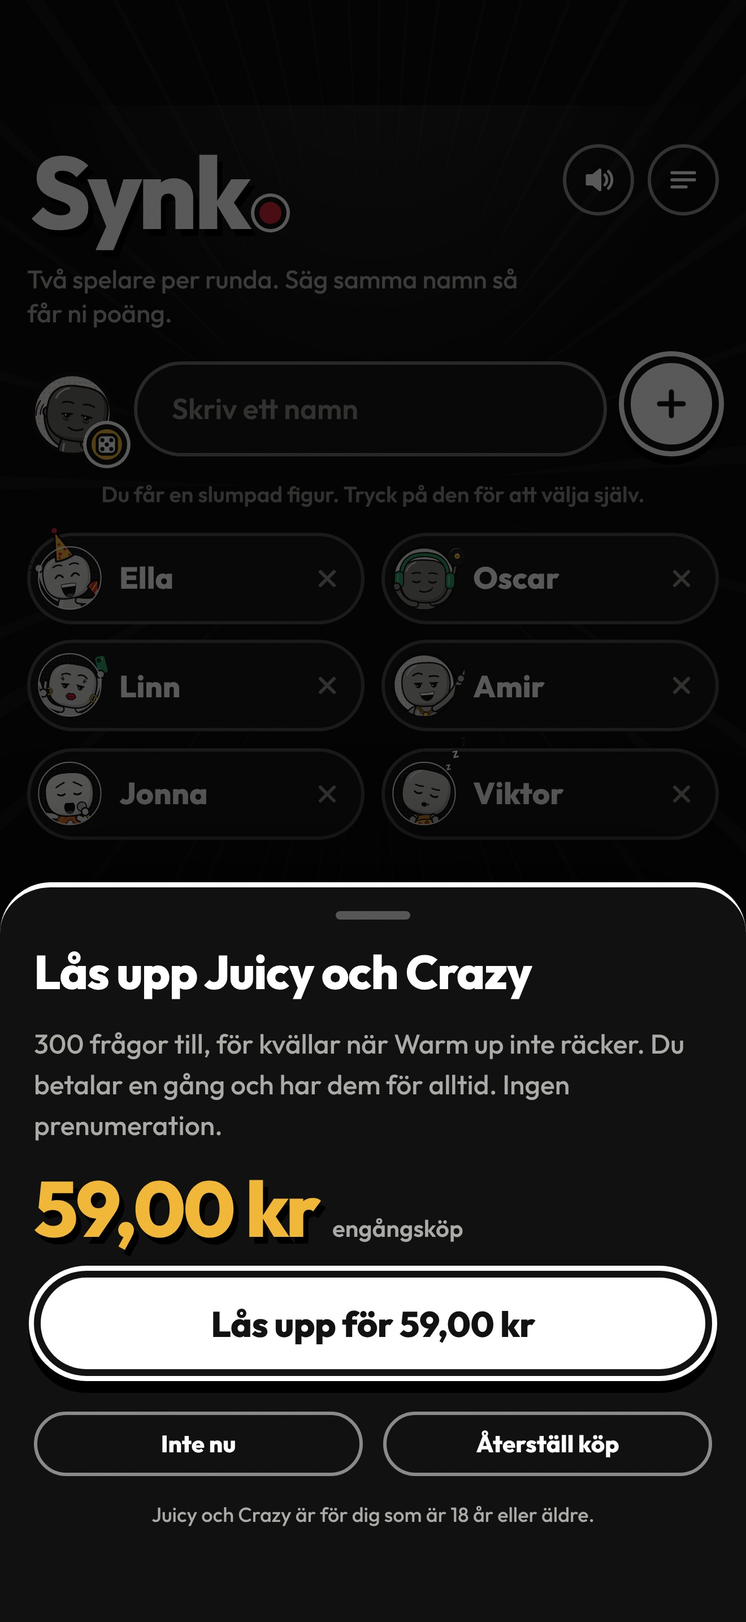
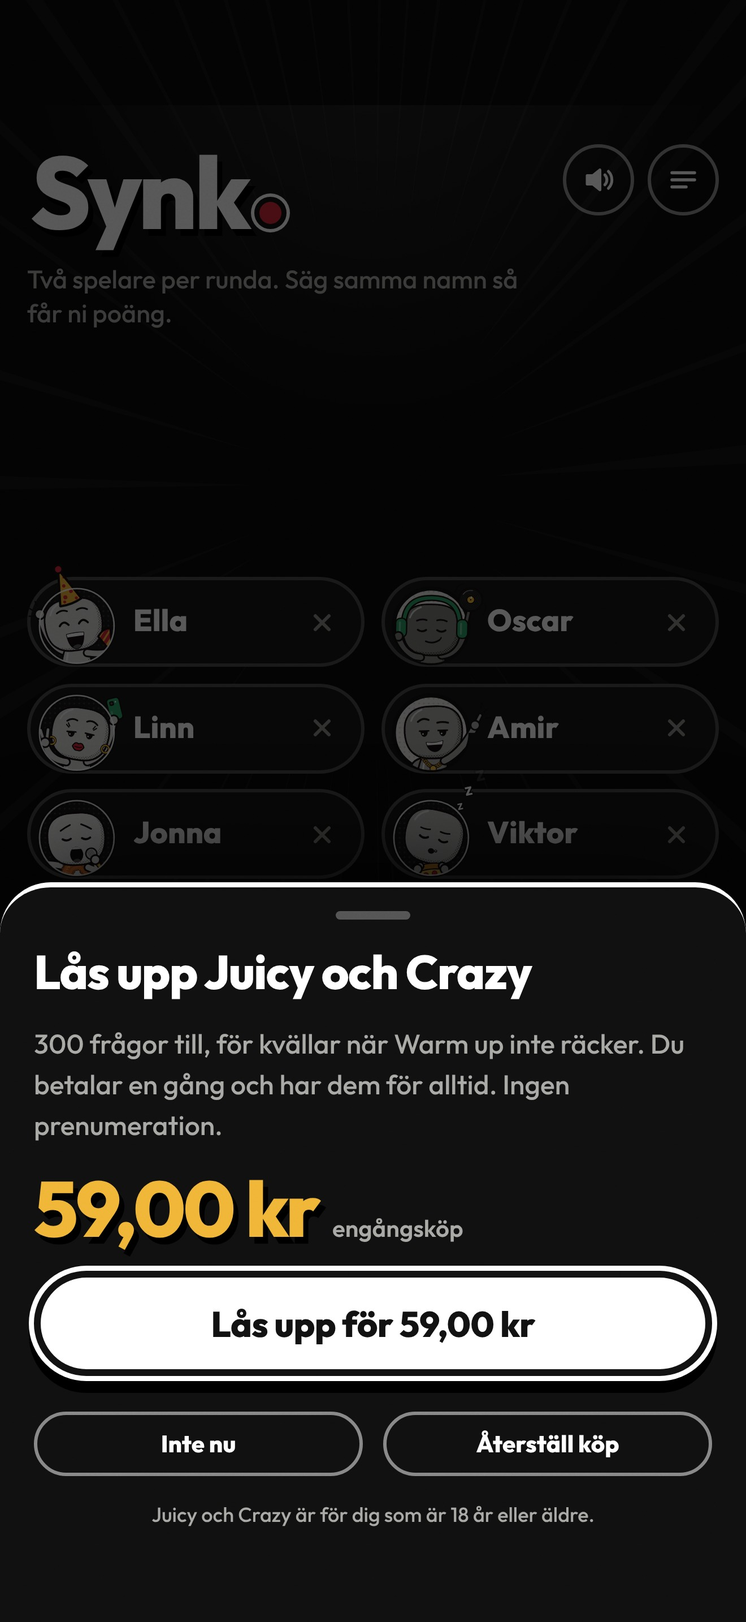
Fix iPhone layout bugs, name input in thumb reach, edit players
Found when testing build 4 on a real iPhone:
- Player names were invisible on the start screen and in the ranking.
  Safari sized the figure badges from percentage heights with aspect-ratio
  and fell back to a huge width, leaving the name zero pixels wide. Badges
  now get explicit sizes everywhere; the start screen computes the chip
  size in pixels from the space it has.
- Descenders (j, g) were cut off in the VS intro and under the fighters.
  Names get line height and padding for descenders and shadow, and long
  names in the VS intro shrink to fit instead of ending in "...".
- Props that stick out of the badge (Zzz, glass, record, phone) were
  clipped. The badge clip area is wider.

Requested changes:
- The name field sits lower, in thumb reach, and players stack above it.
  While the keyboard is up only the players and the field show, with the
  field just above the keyboard (@capacitor/keyboard, resize none).
- Tap a player to rename, change figure or remove. Duplicate names are
  refused. Long names use a smaller font; with many players on the
  smallest iPhone the tagline hides so everyone fits.

Store screenshots regenerated with the new start screen.

Claude-Session: https://claude.ai/code/session_0186nTj2r7e1PSfHvLZLoir9

diff --git a/app/index.html b/app/index.html
@@ -144,13 +144,13 @@ svg text { font-family: var(--font); }
 .top-btn:active { background: rgba(255, 255, 255, .1); }
 
 /* ---------- Figurbrickor ---------- */
-.avatar { display: block; aspect-ratio: 460 / 500; height: 100%; flex-shrink: 0; position: relative; }
+.avatar { display: block; flex-shrink: 0; position: relative; height: var(--av, 44px); width: calc(var(--av, 44px) * .92); }
 .avatar svg, .fbadge svg { width: 100%; height: 100%; overflow: visible; }
 
 /* ---------- Startsidan ---------- */
 .add-row { display: flex; align-items: center; gap: 10px; flex-shrink: 0; }
-.slot { position: relative; height: clamp(50px, 7vh, 58px); aspect-ratio: 460 / 500; flex-shrink: 0; }
-.slot .avatar { height: 100%; margin-top: -3px; }
+.slot { position: relative; --av: clamp(50px, 7vh, 58px); height: var(--av); width: calc(var(--av) * .92); flex-shrink: 0; }
+.slot .avatar { margin-top: -3px; }
 .slot .dice {
   position: absolute; right: -6px; bottom: -4px; width: 24px; height: 24px; border-radius: 50%;
   background: var(--gold); border: 3px solid var(--black); box-shadow: 0 0 0 2px #fff;
@@ -186,18 +186,20 @@ svg text { font-family: var(--font); }
 .players {
   flex: 1; min-height: 0;
   display: grid;
-  grid-template-columns: 1fr 1fr;
-  grid-template-rows: repeat(5, minmax(0, 1fr));
+  grid-template-columns: repeat(2, minmax(0, 1fr));
+  grid-auto-rows: var(--chip-h, 48px);
+  align-content: end;
   gap: clamp(6px, 1vh, 10px);
 }
+.players.empty { grid-template-rows: 1fr; grid-auto-rows: auto; align-content: stretch; }
 .players-empty {
-  grid-column: 1 / -1; grid-row: 1 / -1;
+  grid-column: 1 / -1;
   border: 2px dashed var(--line); border-radius: var(--radius);
   display: grid; place-items: center; text-align: center;
   color: var(--muted); font-weight: 600; padding: 16px; line-height: 1.5;
 }
 .chip {
-  min-height: 0;
+  min-height: 0; min-width: 0;
   display: flex; align-items: center; gap: 8px;
   background: var(--surface);
   border: 2px solid var(--line);
@@ -205,11 +207,31 @@ svg text { font-family: var(--font); }
   padding: 2px 6px 2px 2px;
   animation: pop .35s cubic-bezier(.3, 1.5, .5, 1);
 }
-.chip-avatar { height: 100%; max-height: 60px; flex-shrink: 0; display: flex; }
+.chip-main { flex: 1; min-width: 0; height: 100%; display: flex; align-items: center; gap: 8px; text-align: left; }
+.chip-avatar { flex-shrink: 0; display: flex; --av: var(--chip-av, 44px); }
 .chip-avatar .avatar { margin-top: -4px; }
-.chip-name { flex: 1; min-width: 0; font-weight: 800; font-size: clamp(15px, 2.2vh, 18px); white-space: nowrap; overflow: hidden; text-overflow: ellipsis; }
-.chip-remove { width: 28px; height: 28px; border-radius: 50%; color: var(--muted-2); display: grid; place-items: center; flex-shrink: 0; }
+.chip-name { flex: 1; min-width: 0; font-weight: 800; font-size: clamp(15px, 2.2vh, 18px); line-height: 1.3; padding-bottom: 2px; white-space: nowrap; overflow: hidden; text-overflow: ellipsis; }
+.chip-name.long { font-size: clamp(14px, 2vh, 16px); letter-spacing: -0.02em; }
+.chip-name.xlong { font-size: clamp(12px, 1.8vh, 14px); letter-spacing: -0.02em; }
+.chip-remove { width: 34px; height: 34px; border-radius: 50%; color: var(--muted-2); display: grid; place-items: center; flex-shrink: 0; }
 .chip-remove:active { background: var(--surface-2); }
+
+/* Medan tangentbordet är uppe: bara spelarna och namnfältet, precis ovanför tangentbordet */
+.kb .app { padding-bottom: calc(var(--kb, 0px) - env(safe-area-inset-bottom, 0px) + 10px); }
+.kb #setup .add-hint, .kb #setup .section-label, .kb #setup .cats, .kb #setup #start-btn, .kb #setup .tagline { display: none; }
+.kb .players { overflow: hidden; }
+#setup.compact .tagline { display: none; }
+.kb .toast { bottom: calc(var(--kb, 0px) + 16px); }
+.kb .sheet { padding-bottom: calc(var(--kb, 0px) + 14px); }
+.kb .sheet .pick-stage, .kb .sheet .pick-grid { display: none; }
+.sheet-input {
+  width: 100%; height: 52px; border-radius: 999px; flex-shrink: 0;
+  border: 2.5px solid rgba(255, 255, 255, .4); background: #151515; color: #fff;
+  padding: 0 20px; font: 700 18px var(--font);
+  user-select: text; -webkit-user-select: text;
+}
+.sheet-input:focus { border-color: #fff; outline: none; }
+.btn-danger { color: #ff6b7a; }
 
 /* Nivåerna: mörka rutor, den valda blir ett vitt kort med hård skugga */
 .cats { display: grid; grid-template-columns: repeat(3, 1fr); gap: 12px; flex-shrink: 0; padding: 6px 4px 8px; }
@@ -267,7 +289,7 @@ svg text { font-family: var(--font); }
 .fbadge { position: relative; height: clamp(58px, 12vh, 124px); aspect-ratio: 460 / 500; transition: transform .35s cubic-bezier(.3, 1.5, .5, 1); }
 .vs.away #fA .fbadge { transform: rotate(-12deg) translateX(-6px); }
 .vs.away #fB .fbadge { transform: rotate(12deg) translateX(6px); }
-.fighter-name { font-weight: 800; font-size: clamp(18px, 3vh, 25px); letter-spacing: -0.02em; white-space: nowrap; overflow: hidden; text-overflow: ellipsis; max-width: 100%; text-shadow: 2px 3px 0 #000; }
+.fighter-name { font-weight: 800; font-size: clamp(18px, 3vh, 25px); letter-spacing: -0.02em; line-height: 1.25; padding: 0 4px 5px 2px; white-space: nowrap; overflow: hidden; text-overflow: ellipsis; max-width: 100%; text-shadow: 2px 3px 0 #000; }
 .fighter-name.long { font-size: clamp(16px, 2.5vh, 21px); }
 .fighter-name.xlong { font-size: clamp(13px, 2vh, 17px); }
 .fighter-score { font-size: 13px; font-weight: 800; color: var(--black); background: #fff; border-radius: 999px; padding: 1px 10px; font-variant-numeric: tabular-nums; }
@@ -355,8 +377,8 @@ svg text { font-family: var(--font); }
   font-weight: 800; font-size: clamp(17px, 2.6vh, 21px);
 }
 .vote:active { transform: translateY(5px); box-shadow: 0 0 0 3px #fff, 0 2px 0 3px #000; }
-.vote .avatar { height: 115%; margin-top: -8px; }
-.vote span { min-width: 0; overflow: hidden; text-overflow: ellipsis; white-space: nowrap; }
+.vote .avatar { --av: calc(var(--tap) * 1.1); margin-top: -8px; }
+.vote span { min-width: 0; overflow: hidden; text-overflow: ellipsis; white-space: nowrap; line-height: 1.3; padding-bottom: 2px; }
 .none-btn { display: block; margin: clamp(6px, 1.4vh, 14px) auto 0; font-weight: 700; font-size: 15px; color: #d6d6d3; border: 2px solid rgba(255, 255, 255, .35); border-radius: 999px; padding: 8px 18px; }
 .none-btn:active { background: rgba(255, 255, 255, .1); }
 
@@ -392,8 +414,8 @@ svg text { font-family: var(--font); }
 .rank-row.first { background: #fff; color: var(--black); border: 3px solid var(--black); box-shadow: var(--hard-sm); }
 .rank-row .n { color: var(--muted); font-weight: 800; font-size: 13px; font-variant-numeric: tabular-nums; text-align: center; }
 .rank-row.first .n { color: var(--black); }
-.rank-row .avatar { height: 115%; max-height: 44px; margin-top: -6px; }
-.rank-row .nm { font-weight: 800; font-size: clamp(14px, 2vh, 16px); white-space: nowrap; overflow: hidden; text-overflow: ellipsis; }
+.rank-row .avatar { --av: clamp(28px, 4.6vh, 42px); margin-top: -6px; }
+.rank-row .nm { font-weight: 800; font-size: clamp(14px, 2vh, 16px); line-height: 1.3; padding-bottom: 2px; white-space: nowrap; overflow: hidden; text-overflow: ellipsis; }
 .rank-row .bar { height: 7px; border-radius: 5px; background: rgba(255, 255, 255, .12); overflow: hidden; }
 .rank-row .bar i { display: block; height: 100%; background: #fff; border-radius: 5px; }
 .rank-row.first .bar { background: #e6e5e2; }
@@ -401,7 +423,7 @@ svg text { font-family: var(--font); }
 .rank-row .pts { font-weight: 800; font-size: clamp(15px, 2.3vh, 18px); font-variant-numeric: tabular-nums; text-align: right; }
 .ranking.cols { grid-template-columns: 1fr 1fr; grid-template-rows: repeat(5, minmax(0, 1fr)); grid-auto-flow: column; column-gap: 8px; max-height: 240px; align-content: center; }
 .ranking.cols .rank-row { grid-template-columns: 14px auto minmax(0, 1fr) 20px; gap: 6px; padding: 0 9px 0 4px; }
-.ranking.cols .rank-row .avatar { max-height: clamp(26px, 9vw, 42px); }
+.ranking.cols .rank-row .avatar { --av: clamp(24px, min(8vw, 4vh), 38px); }
 .ranking.cols .bar { display: none; }
 #results.duo .stage { height: clamp(170px, 40vh, 360px); }
 .ranking.dots { grid-template-columns: repeat(5, minmax(0, 54px)); grid-auto-rows: auto; justify-content: center; align-content: center; gap: 10px; max-height: none; }
@@ -413,8 +435,8 @@ svg text { font-family: var(--font); }
 .award-k { display: flex; align-items: center; gap: 6px; font-size: 11px; font-weight: 800; letter-spacing: .1em; text-transform: uppercase; color: var(--muted); }
 .award-k i { width: 9px; height: 9px; border-radius: 50%; background: var(--c); border: 2px solid var(--black); box-shadow: 0 0 0 1.5px #fff; }
 .award-v { display: flex; align-items: center; gap: 0; margin-top: 2px; min-width: 0; }
-.award-v .avatar { height: 30px; margin-right: -8px; margin-top: -4px; }
-.award-v span { margin-left: 14px; font-weight: 800; letter-spacing: -0.01em; font-size: 14px; white-space: nowrap; overflow: hidden; text-overflow: ellipsis; min-width: 0; }
+.award-v .avatar { --av: 30px; margin-right: -8px; margin-top: -4px; }
+.award-v span { margin-left: 14px; font-weight: 800; letter-spacing: -0.01em; font-size: 14px; line-height: 1.3; padding-bottom: 2px; white-space: nowrap; overflow: hidden; text-overflow: ellipsis; min-width: 0; }
 .award-s { font-size: 12px; color: var(--muted-2); font-weight: 700; }
 
 /* ---------- Ark (köp, ställning, nivåval, figurval) ---------- */
@@ -440,7 +462,7 @@ svg text { font-family: var(--font); }
 .sheet .fine { font-size: 12px; text-align: center; }
 .sheet-list { display: grid; gap: 6px; }
 .score-row { display: grid; grid-template-columns: auto 1fr auto; gap: 12px; align-items: center; padding: 2px 0; height: 40px; }
-.score-row .avatar { height: 40px; }
+.score-row .avatar { --av: 40px; }
 .score-row .nm { font-weight: 700; }
 .score-row .pts { font-weight: 800; font-size: 20px; font-variant-numeric: tabular-nums; }
 .cat-option { display: flex; align-items: center; justify-content: space-between; height: 58px; padding: 0 18px; border-radius: 20px; background: var(--surface); border: 2px solid var(--line); }
@@ -461,7 +483,7 @@ svg text { font-family: var(--font); }
 .pick-stage svg { width: 100%; height: 100%; }
 .pick-grid { display: grid; grid-template-columns: repeat(5, 1fr); gap: clamp(8px, 1.6vh, 16px) 4px; }
 .pick { position: relative; display: grid; place-items: center; }
-.pick .avatar { height: clamp(52px, 8.4vh, 66px); }
+.pick .avatar { --av: clamp(52px, 8.4vh, 66px); }
 .pick:disabled .avatar { opacity: .32; filter: grayscale(1); }
 .pick .owner { position: absolute; left: 50%; bottom: -4px; transform: translateX(-50%); font-weight: 800; font-size: 11px; background: #fff; color: var(--black); border: 2px solid var(--black); border-radius: 999px; padding: 0 6px; max-width: 100%; white-space: nowrap; overflow: hidden; text-overflow: ellipsis; }
 .pick[aria-pressed="true"]::before { content: ""; position: absolute; width: clamp(50px, 8vh, 62px); aspect-ratio: 1; border-radius: 50%; top: 4%; box-shadow: 0 0 0 4px #fff, 0 0 0 7px var(--black), 0 0 0 9px #fff; }
@@ -516,7 +538,7 @@ svg text { font-family: var(--font); }
 .vsfx .pr::after { background: radial-gradient(ellipse 70% 80% at 55% 55%, transparent 45%, rgba(0, 0, 0, .35)); }
 .vsfx .lines { position: absolute; inset: 0; width: 100%; height: 100%; }
 .vsfx .split { position: absolute; top: 0; bottom: 0; left: 50%; width: 14px; margin-left: -7px; background: #0a0a0a; transform: skewX(-7.5deg); z-index: 1; }
-.vsfx .who { position: absolute; top: calc(env(safe-area-inset-top, 0px) + 9vh); font: 800 clamp(40px, 7vh, 64px)/1 var(--font); color: #fff; -webkit-text-stroke: 10px var(--black); paint-order: stroke fill; text-shadow: 5px 6px 0 #000; z-index: 3; max-width: 46%; overflow: hidden; text-overflow: ellipsis; white-space: nowrap; animation: vsDrop .4s cubic-bezier(.3, 1.6, .5, 1) .3s both; }
+.vsfx .who { position: absolute; top: calc(env(safe-area-inset-top, 0px) + 9vh); font: 800 clamp(40px, 7vh, 64px)/1.2 var(--font); color: #fff; -webkit-text-stroke: 10px var(--black); paint-order: stroke fill; text-shadow: 5px 6px 0 #000; z-index: 3; max-width: 46%; padding: 6px 10px 12px 6px; overflow: hidden; white-space: nowrap; animation: vsDrop .4s cubic-bezier(.3, 1.6, .5, 1) .3s both; }
 .vsfx .who.a { left: 6%; }
 .vsfx .who.b { right: 6%; animation-delay: .38s; }
 .vsfx .f { position: absolute; bottom: calc(env(safe-area-inset-bottom, 0px) + 6vh); height: min(40vh, 64vw); aspect-ratio: 580 / 720; z-index: 2; }
@@ -585,6 +607,8 @@ svg text { font-family: var(--font); }
       <button class="menu-btn" id="menu-btn" aria-label="Meny"><svg width="20" height="20" viewBox="0 0 24 24" fill="none" stroke="currentColor" stroke-width="2.2" stroke-linecap="round"><path d="M4 7h16M4 12h16M4 17h10"/></svg></button>
     </header>
 
+    <div class="players" id="players"></div>
+
     <form class="add-row" id="add-form" autocomplete="off">
       <button class="slot" id="slot" type="button" aria-label="Välj figur till nästa spelare"></button>
       <input id="name-input" maxlength="14" placeholder="Skriv ett namn" enterkeyhint="done" aria-label="Spelarens namn">
@@ -593,8 +617,6 @@ svg text { font-family: var(--font); }
       </button>
     </form>
     <p class="add-hint" id="add-hint">Du får en slumpad figur. Tryck på den för att välja själv.</p>
-
-    <div class="players" id="players"></div>
 
     <p class="section-label">Välj nivå</p>
     <div class="cats" id="cats"></div>
@@ -1088,16 +1110,18 @@ svg text { font-family: var(--font); }
   // ---------- Setup ----------
   function renderPlayers() {
     var el = $("players");
+    el.classList.toggle("empty", !state.players.length);
     if (!state.players.length) {
       el.innerHTML = '<div class="players-empty">Lägg till minst två spelare.<br>Alla får en egen figur.</div>';
     } else {
       el.innerHTML = state.players.map(function (p) {
         return '<div class="chip">' +
-          '<button class="chip-avatar" data-fig="' + p.id + '" aria-label="Byt figur för ' + esc(p.name) + '">' + avatarHTML(p) + "</button>" +
-          '<span class="chip-name">' + esc(p.name) + "</span>" +
+          '<button class="chip-main" data-edit="' + p.id + '" aria-label="Ändra ' + esc(p.name) + '"><span class="chip-avatar">' + avatarHTML(p) + "</span>" +
+          '<span class="chip-name' + (p.name.length > 9 ? " xlong" : p.name.length > 6 ? " long" : "") + '">' + esc(p.name) + "</span></button>" +
           '<button class="chip-remove" data-remove="' + p.id + '" aria-label="Ta bort ' + esc(p.name) + '">' + ICON.x + "</button></div>";
       }).join("");
     }
+    sizeChips();
     var full = state.players.length >= MAX_PLAYERS;
     if (!full && usedFigs(null).indexOf(state.nextFig) >= 0) state.nextFig = randomFig(null);
     $("slot").innerHTML = full ? "" : avatarHTML({ fig: state.nextFig }) + '<span class="dice">' + ICON.dice + "</span>";
@@ -1112,21 +1136,56 @@ svg text { font-family: var(--font); }
     $("start-btn").textContent = state.players.length < 2 ? "Minst 2 spelare" : "Kör! " + plan.total + " rundor";
   }
 
+  // Spelarbrickornas storlek: fem rader ska alltid få plats ovanför namnfältet.
+  // Räknas ut i pixlar, eftersom Safari inte klarar procent på brickorna.
+  function sizeChips() {
+    var el = $("players");
+    if (!el || document.body.classList.contains("kb") || !el.clientHeight) return;
+    var gap = parseFloat(getComputedStyle(el).rowGap) || 8;
+    function rowH() { return Math.floor((el.clientHeight - 4 * gap) / 5); }
+    // På små skärmar med många spelare göms texten under loggan, så att alla får plats
+    $("setup").classList.remove("compact");
+    if (rowH() < 36 && state.players.length > 6) $("setup").classList.add("compact");
+    var h = Math.max(28, Math.min(58, rowH()));
+    el.style.setProperty("--chip-h", h + "px");
+    el.style.setProperty("--chip-av", (h + 2) + "px");
+  }
+  window.addEventListener("resize", sizeChips);
+  if (document.fonts && document.fonts.ready) document.fonts.ready.then(sizeChips);
+
+  // Tangentbordet. I appen kommer höjden från Capacitors tangentbordstillägg, i webbläsaren från visualViewport.
+  // Medan man skriver visas bara spelarna och namnfältet, precis ovanför tangentbordet.
+  function setKeyboard(h) {
+    var open = h > 80;
+    document.documentElement.style.setProperty("--kb", (open ? Math.round(h) : 0) + "px");
+    document.body.classList.toggle("kb", open);
+    window.scrollTo(0, 0);
+    if (!open) setTimeout(sizeChips, 50);
+  }
+  window.addEventListener("keyboardWillShow", function (e) { setKeyboard(e.keyboardHeight || 0); });
+  window.addEventListener("keyboardWillHide", function () { setKeyboard(0); });
+  if (!IS_NATIVE && window.visualViewport) {
+    window.visualViewport.addEventListener("resize", function () { setKeyboard(window.innerHeight - window.visualViewport.height); });
+  }
+
   // Figurväljaren. playerId = null betyder nästa spelare som läggs till.
+  // För en spelare som redan är med går det också att byta namn och ta bort spelaren.
   function openFigPicker(playerId) {
     var p = playerId ? byId(playerId) : null;
     var who = p ? p.name : ($("name-input").value.trim() || "nästa spelare");
     var current = p ? p.fig : state.nextFig;
     var owners = {};
     state.players.forEach(function (q) { if (!p || q.id !== p.id) owners[q.fig] = q.name; });
-    sheet('<h2>Välj figur<small>till ' + esc(who) + "</small></h2>" +
+    sheet((p ? "<h2>Ändra spelare</h2>" + '<input class="sheet-input" id="edit-name" maxlength="14" enterkeyhint="done" aria-label="Namn" value="' + esc(p.name) + '">'
+        : '<h2>Välj figur<small>till ' + esc(who) + "</small></h2>") +
       '<div class="pick-stage"><div id="pick-preview"></div></div>' +
       '<div class="pick-grid" id="pick-grid">' + FIG_IDS.map(function (f) {
         var owner = owners[f];
         return '<button class="pick" data-pick="' + f + '" aria-pressed="' + (f === current) + '"' + (owner ? " disabled" : "") + ' aria-label="' + (owner ? "Tagen av " + esc(owner) : "Figur") + '">' +
           avatarHTML({ fig: f }) + (owner ? '<span class="owner">' + esc(owner) + "</span>" : "") + (f === current ? '<span class="check">' + ICON.check + "</span>" : "") + "</button>";
       }).join("") + "</div>" +
-      '<div class="btn-row"><button class="btn btn-ghost" id="pick-random">' + ICON.dice + "Slumpa</button><button class=\"btn btn-primary\" id=\"pick-done\">Klar</button></div>");
+      (p ? '<div class="btn-row"><button class="btn btn-ghost btn-danger" id="pick-remove">Ta bort</button><button class="btn btn-primary" id="pick-done">Klar</button></div>'
+         : '<div class="btn-row"><button class="btn btn-ghost" id="pick-random">' + ICON.dice + "Slumpa</button><button class=\"btn btn-primary\" id=\"pick-done\">Klar</button></div>"));
     var chosen = current;
     function select(f) {
       chosen = f;
@@ -1145,9 +1204,23 @@ svg text { font-family: var(--font); }
       if (!b || b.disabled) return;
       select(b.dataset.pick); buzz(8); Sound.play("add");
     });
-    $("pick-random").onclick = function () { select(randomFig(p ? p.id : null, chosen)); buzz(10); Sound.play("add"); };
+    if (!p) $("pick-random").onclick = function () { select(randomFig(null, chosen)); buzz(10); Sound.play("add"); };
+    if (p) {
+      $("pick-remove").onclick = function () {
+        state.players = state.players.filter(function (q) { return q.id !== p.id; });
+        savePlayers(); closeSheet(); renderPlayers(); Sound.play("remove");
+      };
+      $("edit-name").addEventListener("keydown", function (e) { if (e.key === "Enter") { e.preventDefault(); $("edit-name").blur(); } });
+    }
     $("pick-done").onclick = function () {
-      if (p) { p.fig = chosen; savePlayers(); } else state.nextFig = chosen;
+      if (p) {
+        var name = $("edit-name").value.trim().replace(/\s+/g, " ");
+        if (!name) { toast("Skriv ett namn"); $("edit-name").focus(); return; }
+        var taken = state.players.some(function (q) { return q.id !== p.id && q.name.toLowerCase() === name.toLowerCase(); });
+        if (taken) { toast(name + " är redan med"); $("edit-name").focus(); return; }
+        p.name = name; p.fig = chosen; savePlayers();
+      } else state.nextFig = chosen;
+      if (document.activeElement && document.activeElement.blur) document.activeElement.blur();
       closeSheet(); renderPlayers();
     };
   }
@@ -1222,8 +1295,8 @@ svg text { font-family: var(--font); }
       state.players = state.players.filter(function (p) { return p.id !== rm.dataset.remove; });
       savePlayers(); renderPlayers(); Sound.play("remove"); return;
     }
-    var fg = e.target.closest("[data-fig]");
-    if (fg) openFigPicker(fg.dataset.fig);
+    var ed = e.target.closest("[data-edit]");
+    if (ed) openFigPicker(ed.dataset.edit);
   });
 
   function renderSound() {
@@ -1237,7 +1310,7 @@ svg text { font-family: var(--font); }
   renderSound();
 
   // Lätt haptik på alla knappar
-  document.addEventListener("click", function (e) { if (e.target.closest(".btn, .top-btn, .cat-pill, .icon-btn, .chip-remove, .vote, .none-btn, .slot, .chip-avatar")) buzz(8); });
+  document.addEventListener("click", function (e) { if (e.target.closest(".btn, .top-btn, .cat-pill, .icon-btn, .chip-remove, .vote, .none-btn, .slot, .chip-main")) buzz(8); });
 
   $("cats").addEventListener("click", function (e) {
     var b = e.target.closest("[data-cat]");
@@ -1279,6 +1352,12 @@ svg text { font-family: var(--font); }
     playVS(byId(g.pair[0]), byId(g.pair[1]));
   }
 
+  // Krymper en rad text tills den får plats i sin bredd
+  function fitLine(el, min) {
+    var size = parseFloat(getComputedStyle(el).fontSize);
+    while (el.scrollWidth > el.clientWidth + 1 && size > min) { size -= 2; el.style.fontSize = size + "px"; }
+  }
+
   function reducedMotion() { return window.matchMedia && matchMedia("(prefers-reduced-motion: reduce)").matches; }
 
   // VS-intro: halvorna glider in, figurerna åker in, VS smäller. Cirka 2 sekunder, tryck för att hoppa över.
@@ -1293,6 +1372,8 @@ svg text { font-family: var(--font); }
       '<div class="f a" id="vs-fa"></div><div class="f b" id="vs-fb"></div>' +
       '<div class="mid">' + burstSVG("#fff", "htB") + '<div class="word">' + wordSVG("VS", "#111", "#fff", "#111") + "</div></div>" +
       '<div class="flash"></div></div><div class="skip">Tryck för att hoppa över</div></div>';
+    // Långa namn krymps så att de får plats, i stället för att kapas
+    fx.querySelectorAll(".who").forEach(function (el) { fitLine(el, 20); });
     window.Figures.mount($("vs-fa"), a.fig, { phase: 0 });
     window.Figures.mount($("vs-fb"), b.fig, { phase: 0.4 });
     Sound.play("whoosh");

diff --git a/ios/App/CapApp-SPM/Package.swift b/ios/App/CapApp-SPM/Package.swift
@@ -13,6 +13,7 @@ let package = Package(
     dependencies: [
         .package(url: "https://github.com/ionic-team/capacitor-swift-pm.git", exact: "8.5.2"),
         .package(name: "CapacitorHaptics", path: "../../../node_modules/@capacitor/haptics"),
+        .package(name: "CapacitorKeyboard", path: "../../../node_modules/@capacitor/keyboard"),
         .package(name: "CapacitorPreferences", path: "../../../node_modules/@capacitor/preferences"),
         .package(name: "CapacitorSplashScreen", path: "../../../node_modules/@capacitor/splash-screen"),
         .package(name: "CapacitorStatusBar", path: "../../../node_modules/@capacitor/status-bar"),
@@ -25,6 +26,7 @@ let package = Package(
                 .product(name: "Capacitor", package: "capacitor-swift-pm"),
                 .product(name: "Cordova", package: "capacitor-swift-pm"),
                 .product(name: "CapacitorHaptics", package: "CapacitorHaptics"),
+                .product(name: "CapacitorKeyboard", package: "CapacitorKeyboard"),
                 .product(name: "CapacitorPreferences", package: "CapacitorPreferences"),
                 .product(name: "CapacitorSplashScreen", package: "CapacitorSplashScreen"),
                 .product(name: "CapacitorStatusBar", package: "CapacitorStatusBar"),

diff --git a/app/figures.js b/app/figures.js
@@ -640,7 +640,8 @@ function badge(id, t) {
   RID++;
   const c = 'bc_' + RID, light = !!LIGHT[id];
   return '<svg class="badge" viewBox="-230 -640 460 500" aria-hidden="true">' +
-    '<clipPath id="' + c + '"><circle cx="0" cy="-350" r="200"/><rect x="-260" y="-760" width="520" height="410"/></clipPath>' +
+    // Rekvisita (Zzz, glas, skiva, mobil, hattar) får sticka ut ovanför och bredvid huvudet
+    '<clipPath id="' + c + '"><circle cx="0" cy="-350" r="200"/><rect x="-335" y="-780" width="670" height="430"/></clipPath>' +
     '<circle cx="0" cy="-350" r="200" fill="' + (light ? '#161616' : '#ecebe8') + '" stroke="#111" stroke-width="22"/>' +
     '<circle cx="0" cy="-350" r="200" fill="url(#' + (light ? 'fdotsW' : 'fdotsK') + ')"/>' +
     '<g clip-path="url(#' + c + ')">' + draw(id, t == null ? STILL[id] : t) + '</g>' +

diff --git a/app/README.md b/app/README.md
@@ -17,6 +17,10 @@ Samma namn ger 1 poäng var. Olika namn: de förklarar sig och gruppen röstar o
 - Alla spelar exakt lika många gånger, även vid udda antal. Ett spel är 7–10 rundor: 2 spelare 10, 3 spelare 9, 4 spelare 8, 5 spelare 10, 6 spelare 9, 7–10 spelare lika många rundor som spelare (alla spelar två gånger). Sen visas resultatet automatiskt.
 - Två spelare: ni spelar som ett lag. Olika svar ger ingen omröstning, och resultatet är hur många matcher ni klarade.
 - Varje spelare får en egen figur. Bredvid namnfältet ligger en slumpad ledig figur, och trycker man på den väljer man själv. Samma figur kan inte användas av två spelare. Tio figurer räcker till max tio spelare.
+- Namnfältet ligger längre ner på startsidan, där tummen når. Spelarna läggs till ovanför det, och listan växer uppåt.
+- Medan tangentbordet är uppe visas bara spelarna och namnfältet, som hamnar precis ovanför tangentbordet. I appen kommer tangentbordets höjd från `@capacitor/keyboard` (inställt på `resize: none`), i webbläsaren från `visualViewport`.
+- Tryck på en spelare för att byta namn, byta figur eller ta bort spelaren. Krysset tar bort direkt.
+- Figurbrickorna har alltid fasta mått i pixlar. Safari på iPhone räknar fel på brickor som får sin storlek från procent, och då blev namnen bredvid osynliga.
 - Inga foton. Appen ber inte om kameran eller bildbiblioteket.
 - Före varje runda visas en VS-intro på cirka 2 sekunder med de två spelarnas figurer. Ett tryck hoppar över den. Med reducerad rörelse visas den inte alls.
 - Vid olika namn räknar en timer ner från 10 sekunder medan spelarna förklarar sig. Sen röstar gänget.
